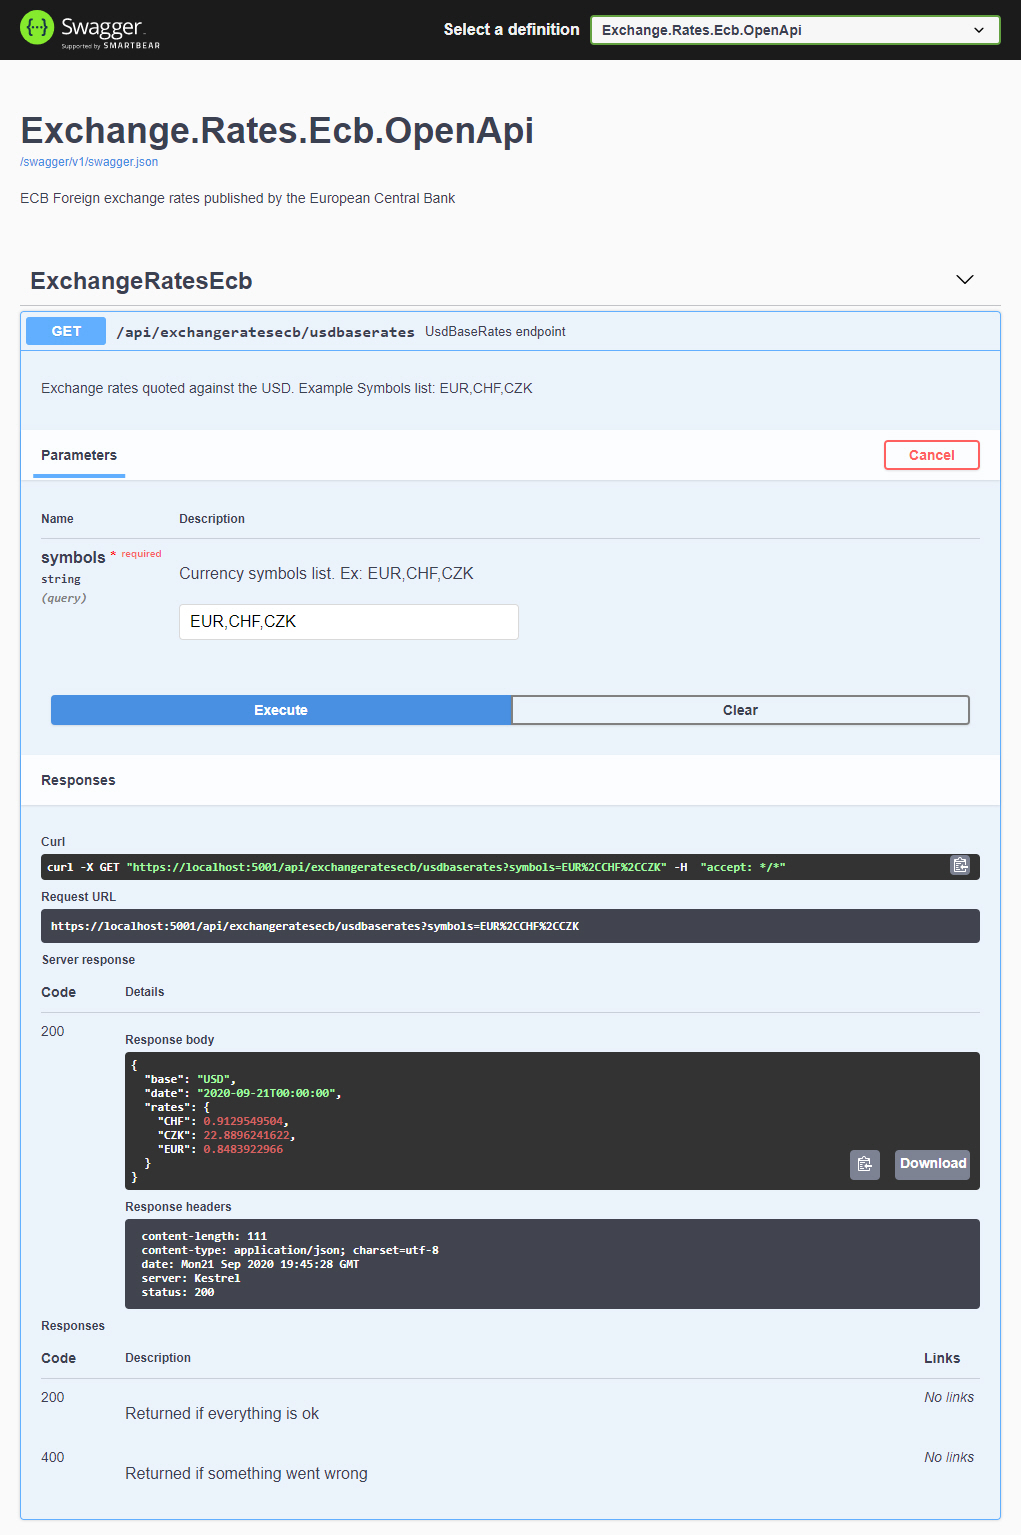
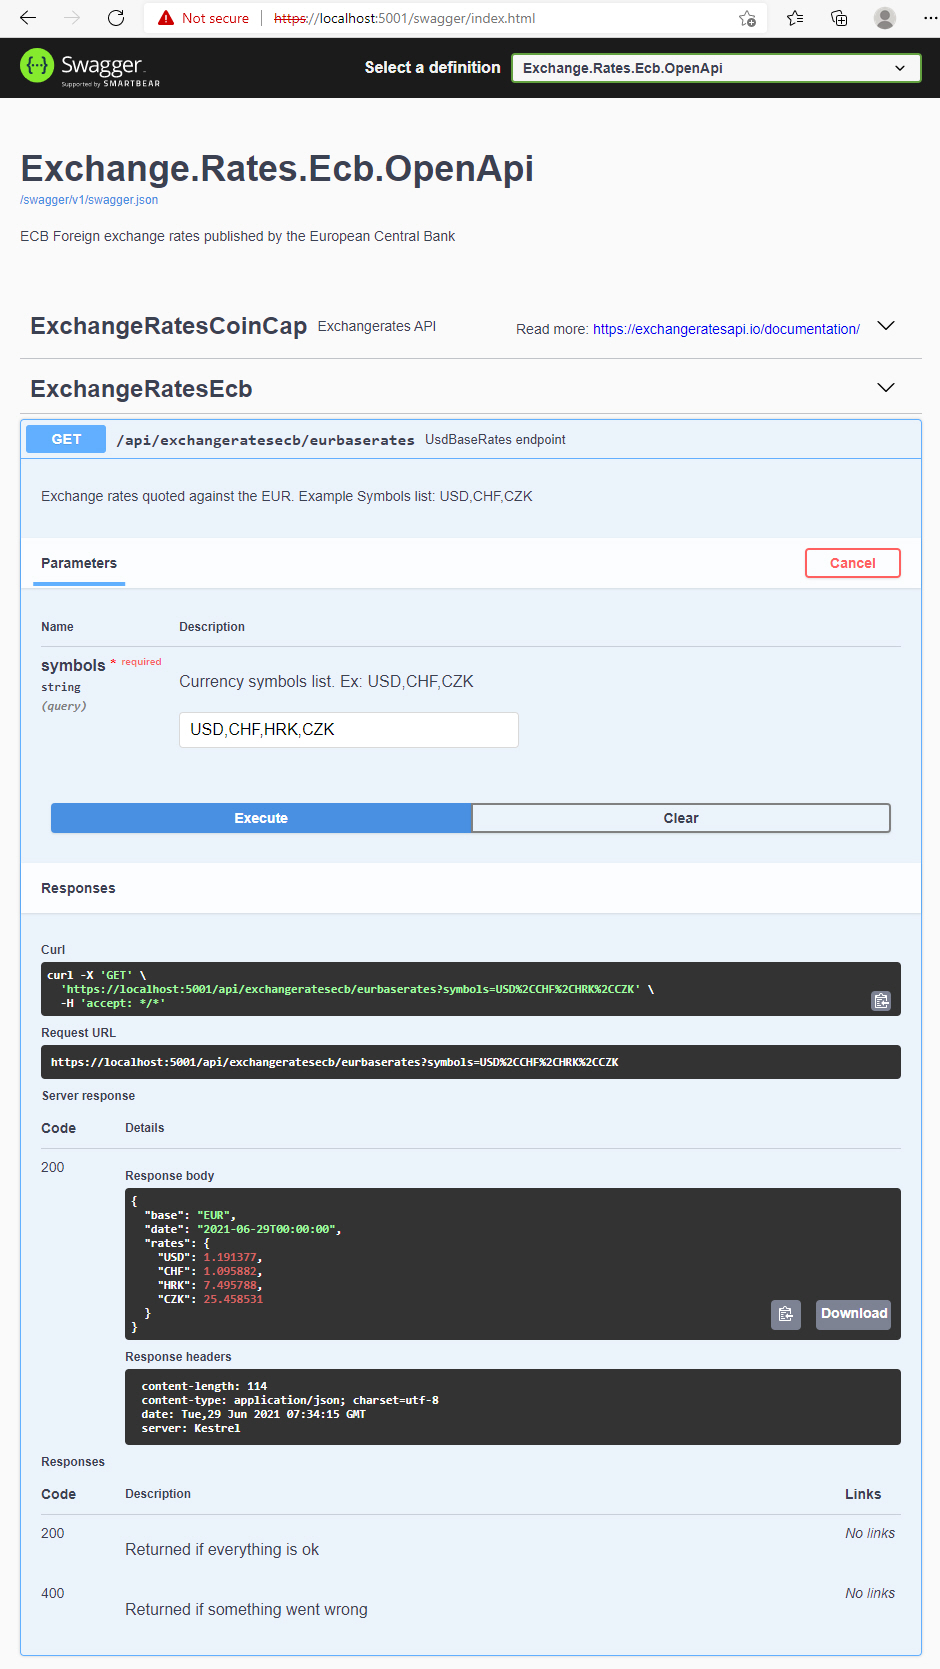
Updated README.md

diff --git a/Exchange.Rates.CoinCap.OpenApi/Startup.cs b/Exchange.Rates.CoinCap.OpenApi/Startup.cs
@@ -1,6 +1,7 @@
-using Exchange.Rates.Contracts.Messages;
 using Exchange.Rates.CoinCap.OpenApi.Extensions;
+using Exchange.Rates.CoinCap.OpenApi.Filters;
 using Exchange.Rates.CoinCap.OpenApi.Options;
+using Exchange.Rates.Contracts.Messages;
 using HealthChecks.UI.Client;
 using MassTransit.Definition;
 using MassTransit;
@@ -46,8 +47,18 @@ namespace Exchange.Rates.CoinCap.OpenApi
             // Register services in Installers folder
             services.AddServicesInAssembly(Configuration);
 
-            // https://localhost:{port}/healthchecks-ui
-            services.AddHealthChecksUI(opt =>
+            // Register the Swagger generator
+            services.AddSwaggerGen(options =>
+            {
+	            // Enable Swagger annotations
+	            options.EnableAnnotations();
+
+	            // Application Controller's API document description information
+	            options.DocumentFilter<SwaggerDocumentFilter>();
+            });
+
+			// https://localhost:{port}/healthchecks-ui
+			services.AddHealthChecksUI(opt =>
             {
                 opt.SetEvaluationTimeInSeconds(15); // time in seconds between check
                 opt.MaximumHistoryEntriesPerEndpoint(60); // maximum history of checks

diff --git a/Exchange.Rates.Ecb.OpenApi/Filters/SwaggerDocumentFilter.cs b/Exchange.Rates.Ecb.OpenApi/Filters/SwaggerDocumentFilter.cs
@@ -1,0 +1,36 @@
+using System;
+using System.Collections.Generic;
+using System.Linq;
+using Microsoft.OpenApi.Models;
+using Swashbuckle.AspNetCore.SwaggerGen;
+
+namespace Exchange.Rates.Ecb.OpenApi.Filters
+{
+    /// <summary>
+    /// Corresponding to Controller's API document description information
+    /// </summary>
+    public class SwaggerDocumentFilter : IDocumentFilter
+    {
+		private const string DOCS_URI = "https://exchangeratesapi.io/documentation/";
+
+		public void Apply(OpenApiDocument swaggerDoc, DocumentFilterContext context)
+        {
+            var tags = new List<OpenApiTag>
+            {
+                new()
+                {
+                    Name = "ExchangeRatesCoinCap",
+                    Description = "Exchangerates API",
+                    ExternalDocs = new OpenApiExternalDocs
+                    {
+                        Description = "Read more",
+                        Url = new Uri(DOCS_URI)
+                    }
+                }
+            };
+
+            // Sort in ascending order by AssemblyName
+            swaggerDoc.Tags = tags.OrderBy(x => x.Name).ToList();
+        }
+    }
+}

diff --git a/Exchange.Rates.Ecb.OpenApi/Startup.cs b/Exchange.Rates.Ecb.OpenApi/Startup.cs
@@ -1,5 +1,6 @@
 using Exchange.Rates.Contracts.Messages;
 using Exchange.Rates.Ecb.OpenApi.Extensions;
+using Exchange.Rates.Ecb.OpenApi.Filters;
 using Exchange.Rates.Ecb.OpenApi.Options;
 using HealthChecks.UI.Client;
 using MassTransit.Definition;
@@ -46,8 +47,18 @@ namespace Exchange.Rates.Ecb.OpenApi
             // Register services in Installers folder
             services.AddServicesInAssembly(Configuration);
 
-            // https://localhost:{port}/healthchecks-ui
-            services.AddHealthChecksUI(opt =>
+            // Register the Swagger generator
+            services.AddSwaggerGen(options =>
+            {
+	            // Enable Swagger annotations
+	            options.EnableAnnotations();
+
+	            // Application Controller's API document description information
+	            options.DocumentFilter<SwaggerDocumentFilter>();
+            });
+
+			// https://localhost:{port}/healthchecks-ui
+			services.AddHealthChecksUI(opt =>
             {
                 opt.SetEvaluationTimeInSeconds(15); // time in seconds between check
                 opt.MaximumHistoryEntriesPerEndpoint(60); // maximum history of checks

diff --git a/Exchange.Rates.CoinCap.OpenApi/Filters/SwaggerDocumentFilter.cs b/Exchange.Rates.CoinCap.OpenApi/Filters/SwaggerDocumentFilter.cs
@@ -1,0 +1,36 @@
+using Microsoft.OpenApi.Models;
+using Swashbuckle.AspNetCore.SwaggerGen;
+using System.Collections.Generic;
+using System.Linq;
+using System;
+
+namespace Exchange.Rates.CoinCap.OpenApi.Filters
+{
+    /// <summary>
+    /// Corresponding to Controller's API document description information
+    /// </summary>
+    public class SwaggerDocumentFilter : IDocumentFilter
+    {
+		private const string DOCS_URI = "https://docs.coincap.io/";
+
+		public void Apply(OpenApiDocument swaggerDoc, DocumentFilterContext context)
+        {
+            var tags = new List<OpenApiTag>
+            {
+                new()
+                {
+                    Name = "ExchangeRatesCoinCap",
+                    Description = "CoinCap API 2.0",
+                    ExternalDocs = new OpenApiExternalDocs
+                    {
+                        Description = "Read more",
+                        Url = new Uri(DOCS_URI)
+                    }
+                }
+            };
+
+            // Sort in ascending order by AssemblyName
+            swaggerDoc.Tags = tags.OrderBy(x => x.Name).ToList();
+        }
+    }
+}

diff --git a/README.md b/README.md
@@ -35,7 +35,7 @@ Microsoft and Amazon also provide API Gateway services on the cloud: [Azure API 
 * **Exchange.Rates.CoinCap.OpenApi**: REST for retrieving pricing and market activity for crypto currencies
 * **Exchange.Rates.CoinCap.Polling.Api**: Service to retrieve crypto currencies info. It uses [CoinCap API 2.0](https://docs.coincap.io/)
 * **Exchange.Rates.Ecb.OpenApi**: REST for European Central Bank (ECB) Foreign exchange rates
-* **Exchange.Rates.Ecb.Polling.Api**: Service to retrieve ECB exchange rates. It uses [ECB Foreign exchange rates API](https://exchangeratesapi.io/)
+* **Exchange.Rates.Ecb.Polling.Api**: Service to retrieve ECB exchange rates. It uses [ECB Foreign exchange rates API](https://exchangeratesapi.io/). Since you will need an API Key you have to [Sign Up](https://exchangeratesapi.io/pricing/).
 
 Each service is hosted in it's own Docker container (take a look into docker-compose project).
 
@@ -207,7 +207,7 @@ services:
 **NOTE**: When starting multiple containers with a compose file, a **common_network** is created in **which all containers are using**. Containers can reach each other with the container name.
 
 ## Setup the Containers
-To execute compose file, open Powershell, and navigate to the compose file in the root folder. Then execute the following command: **docker-compose up -d**. The -d parameter executes the command detached. This means that the containers run in the background and don’t block your Powershell window.
+To execute compose file, open Powershell, and navigate to the compose file in the root folder. Then execute the following command: **docker-compose up -d --build --remove-orphans**. The -d parameter executes the command detached. This means that the containers run in the background and don’t block your Powershell window.
 To check all running Containers use **docker ps**.
 
 ## Runnig in Docker
@@ -220,11 +220,11 @@ To check all running Containers use **docker ps**.
 ![](res/EcbOpenApi.jpg)
 
 ## Call Gateway
-Let’s try to access **CoinCap API** through API Gateway:  
+Let’s try to access **CoinCap API** through API Gateway:
 **https://localhost:8001/exchangeratescoincap/assetinfo?id=bitcoin**
 ![](res/Gateway.jpg)
-And access **Ecb API** through API Gateway:  
-**https://localhost:8001/exchangeratesecb/usdbaserates?symbols=EUR,CHF,CZK**
+And access **Ecb API** through API Gateway:
+**https://localhost:8001/exchangeratesecb/eurbaserates?symbols=USD,CHF,CZK**
 ![](res/Gateway_Ecb.jpg)
 Works perfectly!
 ## Testing
